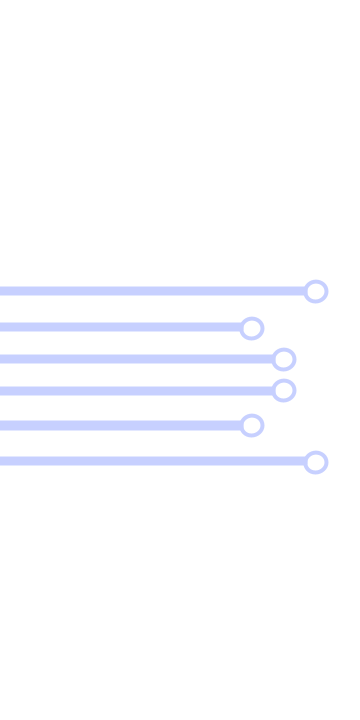
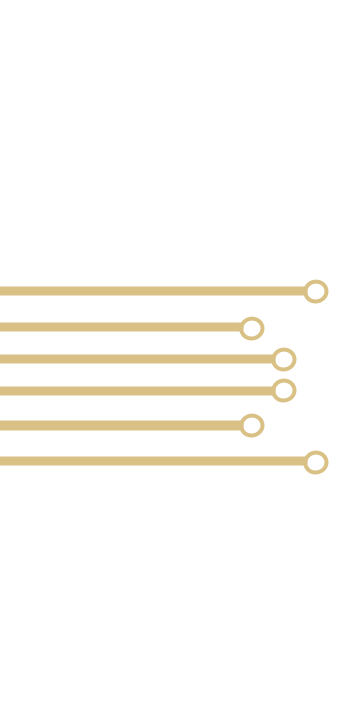
V3 Redesign
Sleeker Colors

Changed region(s): [[0.0, 0.3667, 0.9167, 0.6722]]

diff --git a/main.css b/main.css
@@ -14,21 +14,20 @@ body {
     background-attachment: fixed;
     /* W3C, IE 10+/ Edge, Firefox 16+, Chrome 26+, Opera 12+, Safari 7+ */
     /*background-image: linear-gradient(to bottom, rgb(106, 152, 240), rgb(73, 97, 220));*/
-    background-color: rgb(73, 97, 220) !important;
+    background-color: #383838 !important;
 }
 
 /* ========== Section Padding ========== */
 /* Padding allows you to directly focus on the section when you click on the navbar links*/
 #intro {
     padding: 60px 0;
-    background-image: linear-gradient(to bottom, rgb(106, 152, 240), rgb(73, 97, 220));
+    /*background-image: linear-gradient(to bottom, rgb(106, 152, 240), rgb(73, 97, 220));*/
     /* Ensure that the intro section fills up the entire viewport so other sections do not leak into the viewport */
     min-height: 100vh;
 }
 
 #about {
     padding: 60px 0;
-    background-color: rgb(73, 97, 220) !important;
 }
 
 #projects {
@@ -54,7 +53,7 @@ body {
 
 /* ========== Nav bar ========== */
 .navbar {
-    background: #383838
+    background: #212122
 }
 
 .navbar-brand {
@@ -98,7 +97,7 @@ body {
 /* ========== Intro Section ========== */
 .name {
     font-family: "Montserrat";
-    color: #efefef !important;
+    color: #d9c084 !important;
     font-size: 4em;
     filter: drop-shadow(3px 3px 1px #383838);
 }
@@ -111,45 +110,37 @@ body {
 }
 
 .intro-image {
-    width: 30vw;
+    
+    width:20vw;
+    border-radius: 50%;
     /* Scales with website width*/
-    animation: onLoad 2s;
     /* Adds a sliding in animation for the intro image*/
 }
 
-/* Intro image animation that slides in on website loading*/
-@keyframes onLoad {
-    from {
-        opacity: 0;
-        transform: translate(-10%);
-
-    }
-
-    /* Slide in the image and fade it in */
-    to {
-        opacity: 1;
-        transform: translate(0%);
-    }
+/*===== Background design wires =====*/
+.wire-1:hover,.wire-2:hover{
+ opacity:100%;   
 }
 
-/*===== Background design wires =====*/
 .wire-1 {
+    opacity:50%;
     position: absolute;
     width: 15vw;
     left: 0;
     top: 25%;
-    animation: loadIn 3s;
-
+    transition: ease-in-out 0.5s;
 }
 
 .wire-2 {
+    opacity:50%;
     position: absolute;
     width: 15vw;
     right: 0;
     top: 25%;
-    transform: scaleX(-1);
-    animation: loadIn 3s;
+    transform: scaleX(-1);    
+    transition: ease-in-out 0.5s;
 }
+
 
 /*Media queries for different size screens*/
 /* X-Small devices (portrait phones, less than 576px) */
@@ -218,17 +209,6 @@ body {
     }
 }
 
-/* Animate the wires fading in */
-@keyframes loadIn {
-    0% {
-        opacity: 0%;
-    }
-
-    100% {
-        opacity: 100%;
-    }
-}
-
 
 .chevron-down {
     color: #efefef;
@@ -270,13 +250,8 @@ body {
 
 /*Animate the buttons on hover*/
 .btn-header:hover {
-    background-color: rgba(199, 208, 255, 0.2) !important;
+    background-color: rgba(199, 208, 255, 1) !important;
     transform: scale(0.90);
-    /*
-    animation-name: float;
-    animation-duration: 2s;
-    animation-iteration-count: infinite;
-    */
 }
 
 .header-img {
@@ -365,12 +340,12 @@ body {
 
 /* Radiobutton sections */
 input[name="btnradioprojects"]:checked+label {
-    background-image: linear-gradient(to bottom, rgb(106, 152, 240), rgb(106, 152, 240)) !important;
+    background-color: #a5915f;
 }
 
 .btn-projects {
     font-family: "Montserrat";
-    background-image: linear-gradient(to bottom, rgb(106, 152, 240), rgb(73, 97, 220));
+    background-color: #978249;
     color: #efefef !important;
     font-size: 1.5rem;
     box-shadow: none !important;
@@ -379,7 +354,7 @@ input[name="btnradioprojects"]:checked+label {
 }
 
 .btn-projects:hover {
-    background-image: linear-gradient(to bottom, rgb(106, 152, 240), rgb(106, 152, 240));
+    background-color: #a5915f;
 }
 
 .btn-icon {
@@ -491,14 +466,13 @@ input[name="btnradioprojects"]:checked+label {
 .projects-badge {
     padding: 10px;
     border-radius: 5px;
-    background-image: linear-gradient(to bottom, rgba(106, 152, 240, 1), rgba(73, 97, 220, 1)) !important;
-    /*filter: drop-shadow(2px 2px 2px #000000);*/
+    background-color: #978249;
 }
 
 .projects-link-badge {
     padding: 10px;
     border-radius: 50%;
-    background-image: linear-gradient(to bottom, rgba(106, 152, 240, 1), rgba(73, 97, 220, 1)) !important;
+    background-color: #978249;
     transition: 0.3s ease-in-out;
 }
 
@@ -593,7 +567,7 @@ input[name="btnradioprojects"]:checked+label {
     width: 25px;
     height: 25px;
     left: -13px;
-    background-color: #4961DC;
+    background-color: #978249;
     border: 4px solid white;
     top: 45%;
     border-radius: 50%;
@@ -719,7 +693,7 @@ input[name="btnradioprojects"]:checked+label {
     border-radius: 5px;
     font-family: "Montserrat";
     font-size: 1rem;
-    background: linear-gradient(to bottom, rgba(106, 152, 240, 1), rgba(73, 97, 220, 1));
+    background-color: #978249;
     border: none;
     color: #efefef;
     transition: 0.3s ease-in-out;
@@ -736,7 +710,7 @@ input[name="btnradioprojects"]:checked+label {
 
 /* ========== Footer ========== */
 .footer {
-    background-color: #383838;
+    background-color: #212122;
     outline: none !important;
     border: none !important
 }

diff --git a/index.html b/index.html
@@ -71,16 +71,16 @@
     <section id="intro">
         <div class="container">
 
-            <div class="row justify-content-center align-items-center">
+            <div class="row justify-content-center align-items-center py-5">
 
                 <!-- Wire background design -->
-                <div class="col-sm text-end">
+                <div class="wire col-sm text-end">
                     <img class="wire-1 img-fluid d-none d-sm-block" src="/assets/wire-3.png" alt="Wires">
                 </div>
 
                 <!-- Personal intro image -->
                 <div class="col-sm-4 text-end d-none d-sm-block">
-                    <img class="intro-image img-fluid" src="/assets/intro-pic-edited.png" alt="Reading Bitmoji">
+                    <img class="intro-image img-fluid" src="/assets/intro-pic.jpg" alt="Reading Bitmoji">
                 </div>
 
                 <!-- Titles -->
@@ -100,7 +100,7 @@
                 </div>
 
                 <!-- Wire background desing -->
-                <div class="col-sm text-end ">
+                <div class="wire col-sm text-end ">
                     <img class="wire-2 img-fluid d-none d-sm-block" src="/assets/wire-3.png" alt="Wires">
                 </div>
             </div>
@@ -123,9 +123,9 @@
                 <div class="col-sm-7">
 
                     <!-- About paragraph -->
-                    <h1 class="about-title">Hello! 👋</h1>
+                    <h1 class="about-title">Hello!</h1>
                     <div class="line-break" style="background-color: #ffffff;"></div>
-                    <p class="about-text">My name is <b style="color:#f5de34">Rahim Aziz</b>, and I am a
+                    <p class="about-text">My name is <b style="color:#d9c084">Rahim Aziz</b>, and I am a
                         <b>second-year Electrical Engineering</b> student
                         at McMaster University. I am passionate about using my toolset to solve
                         complex and meaningful problems! I am interested in exploring the interactions between
@@ -207,7 +207,7 @@
     <!-- SVG divider -->
     <section class="divider" id="projects-divider">
         <svg xmlns="http://www.w3.org/2000/svg" viewBox="0 0 1440 320">
-            <path fill="#4961dc" fill-opacity="1"
+            <path fill="#383838" fill-opacity="1"
                 d="M0,256L48,234.7C96,213,192,171,288,165.3C384,160,480,192,576,218.7C672,245,768,267,864,261.3C960,256,1056,224,1152,213.3C1248,203,1344,213,1392,218.7L1440,224L1440,0L1392,0C1344,0,1248,0,1152,0C1056,0,960,0,864,0C768,0,672,0,576,0C480,0,384,0,288,0C192,0,96,0,48,0L0,0Z">
             </path>
         </svg>
@@ -218,7 +218,7 @@
     <section id="projects">
         <div class="container pt-5">
             <h1 class="projects-title">Projects</h1>
-            <div class="line-break" style="background-color: #6A98F0;"></div>
+            <div class="line-break" style="background-color: #978249;"></div>
             <!-- Radio button section-->
             <div class="btn-group mb-3 mt-3" role="group">
 
@@ -913,7 +913,6 @@
     <script src="https://unpkg.com/@sidsbrmnn/scrollspy@1.x/dist/scrollspy.min.js"></script>
     <!-- Main local javascript file -->
     <script src="script.js"></script>
-
 </body>
 
 </html>

diff --git a/script.js b/script.js
@@ -37,3 +37,4 @@ if (/Mobi/.test(navigator.userAgent)) {
     Obs.observe(EL, obsOptions);
   });
 }
+

diff --git a/README.md b/README.md
@@ -13,7 +13,9 @@ Personal Portfolio Website
 </p>
 
 ## To-do list
-* Potential for complete overhaul of the desgin (Try something sleeker with new fonts)
+* Fix intro page hover opacity transition for side wires
+* Add circuit animation for about page
+* New font
 * Pop out projects section cards
 * Try sleeker project cards
 * Change experience section (Accordian style css)
